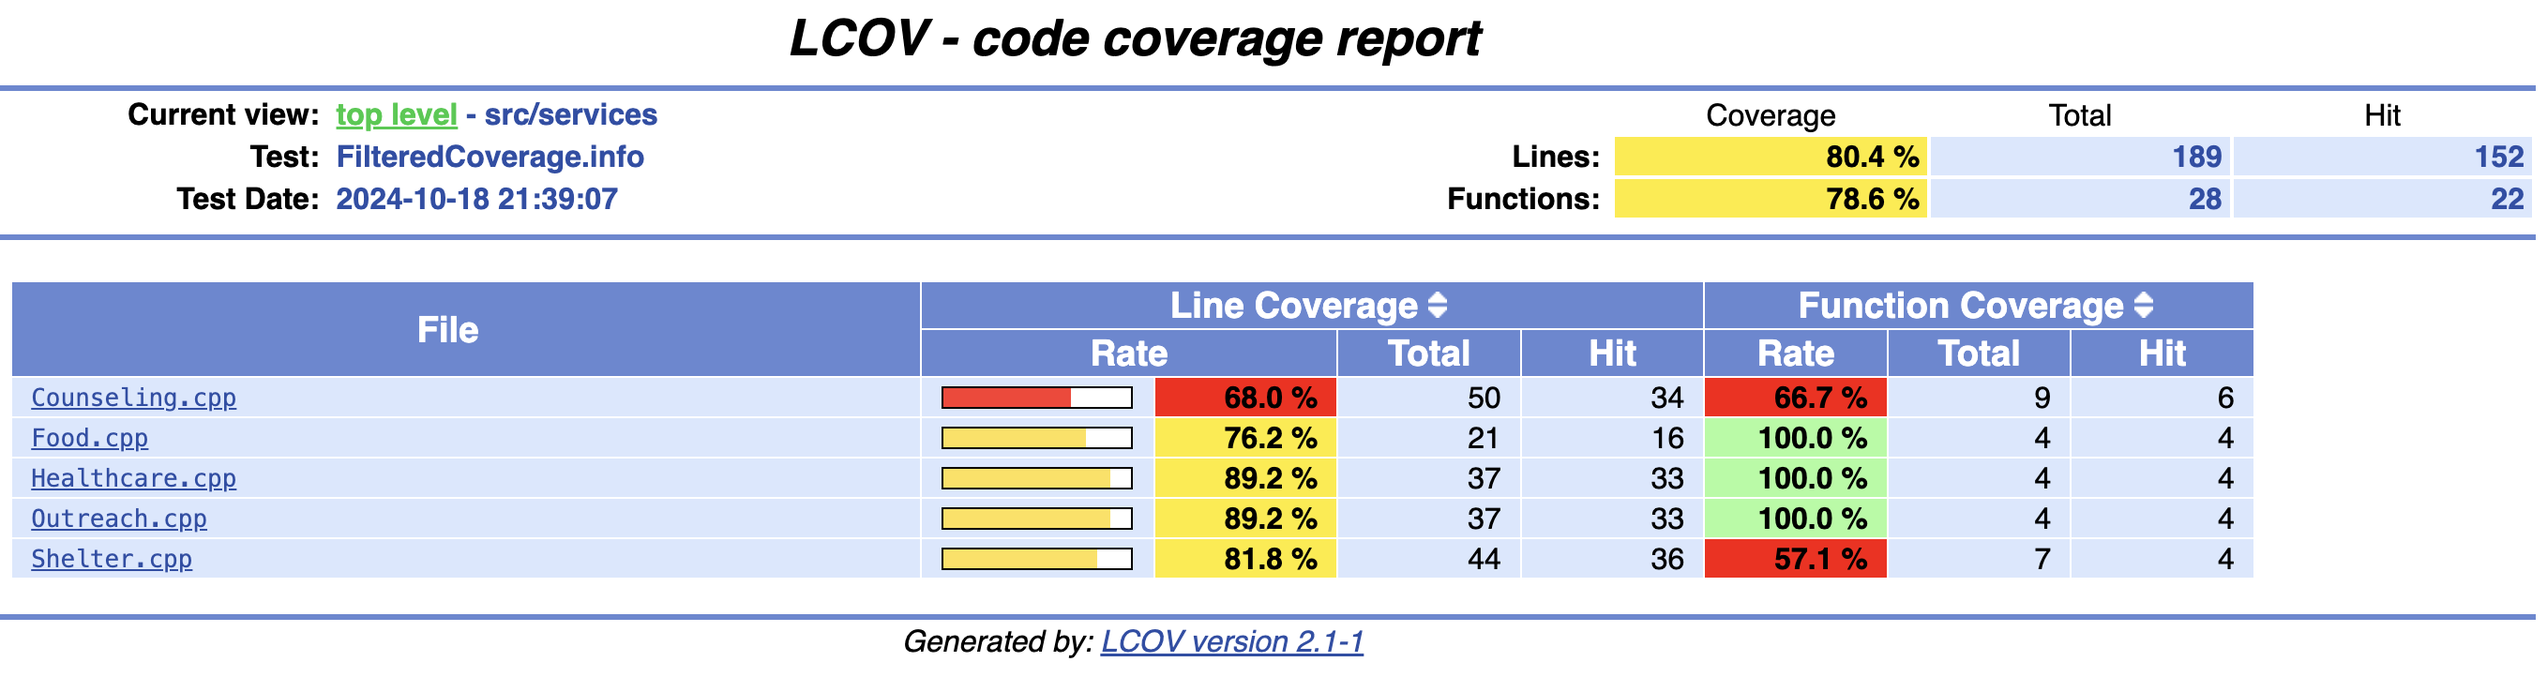
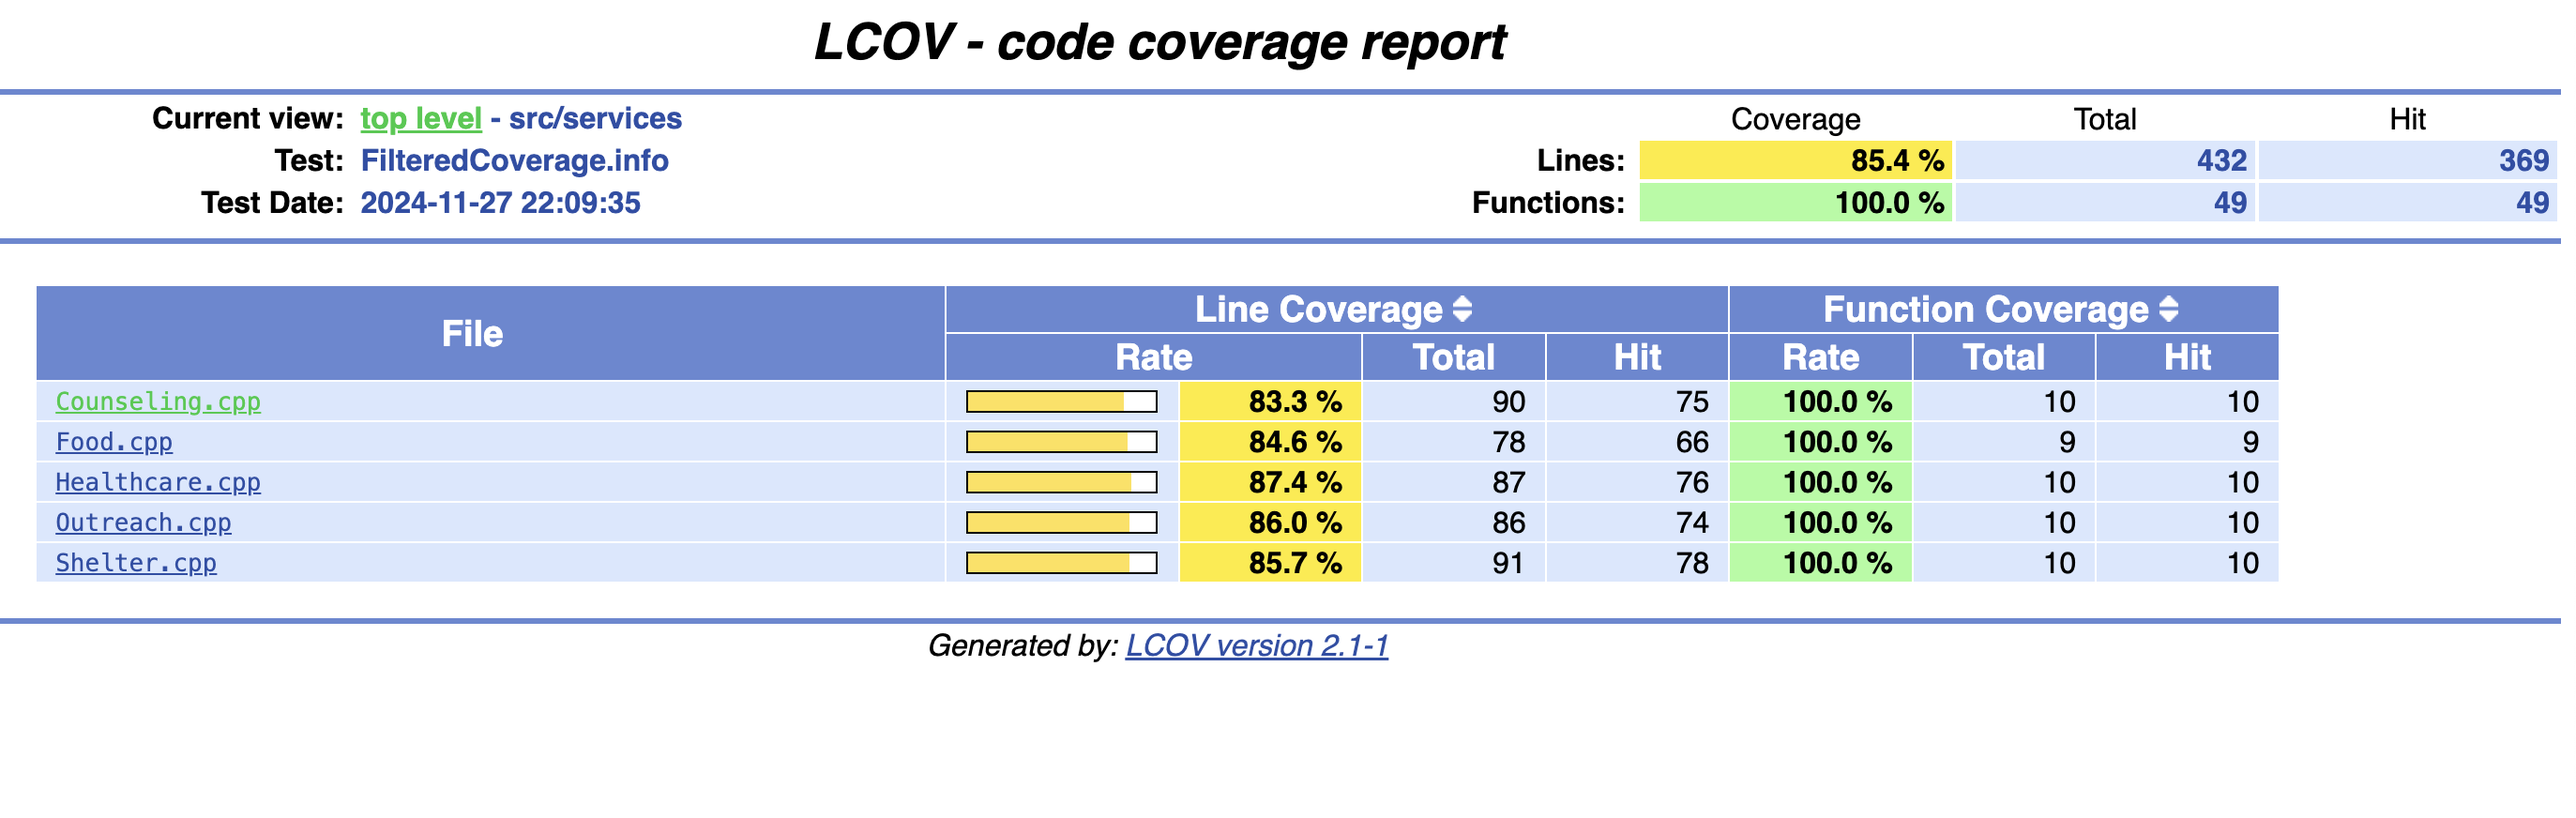
Updtae coverage, fix warnings

diff --git a/src/SubscriptionManager.cpp b/src/SubscriptionManager.cpp
@@ -13,6 +13,7 @@
 #include "Poco/Net/MailMessage.h"
 #include "Poco/Net/MailRecipient.h"
 #include "Poco/Net/NetException.h"
+#include "Poco/Net/PrivateKeyPassphraseHandler.h"
 #include "Poco/Net/SMTPClientSession.h"
 #include "Poco/Net/SSLManager.h"
 #include "Poco/Net/SecureSMTPClientSession.h"
@@ -163,7 +164,7 @@ void SubscriptionManager::sendEmail(const std::string& to,
     SecureSMTPClientSession secure(pSSLSocket);
 
     secure.login();
-    bool tlsStarted = secure.startTLS(pContext);
+    secure.startTLS(pContext);
     secure.login(SMTPClientSession::AUTH_LOGIN, sUserName, sPassword);
 
     message.setSender(from);
